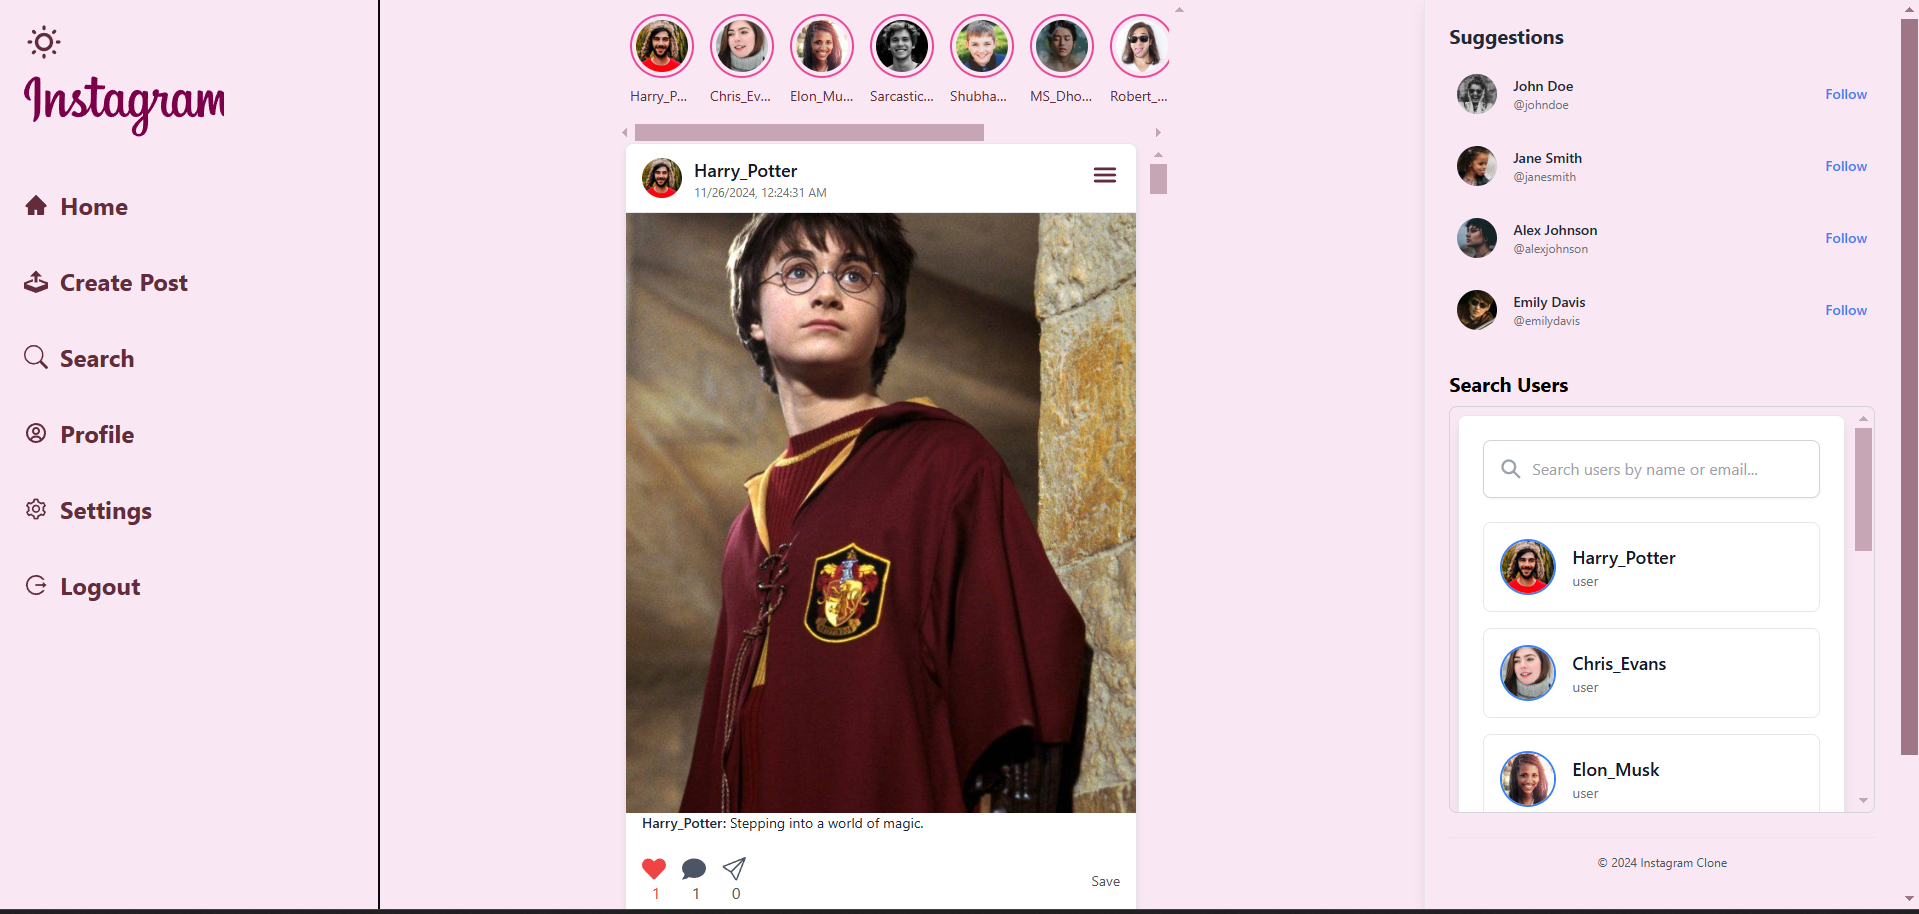
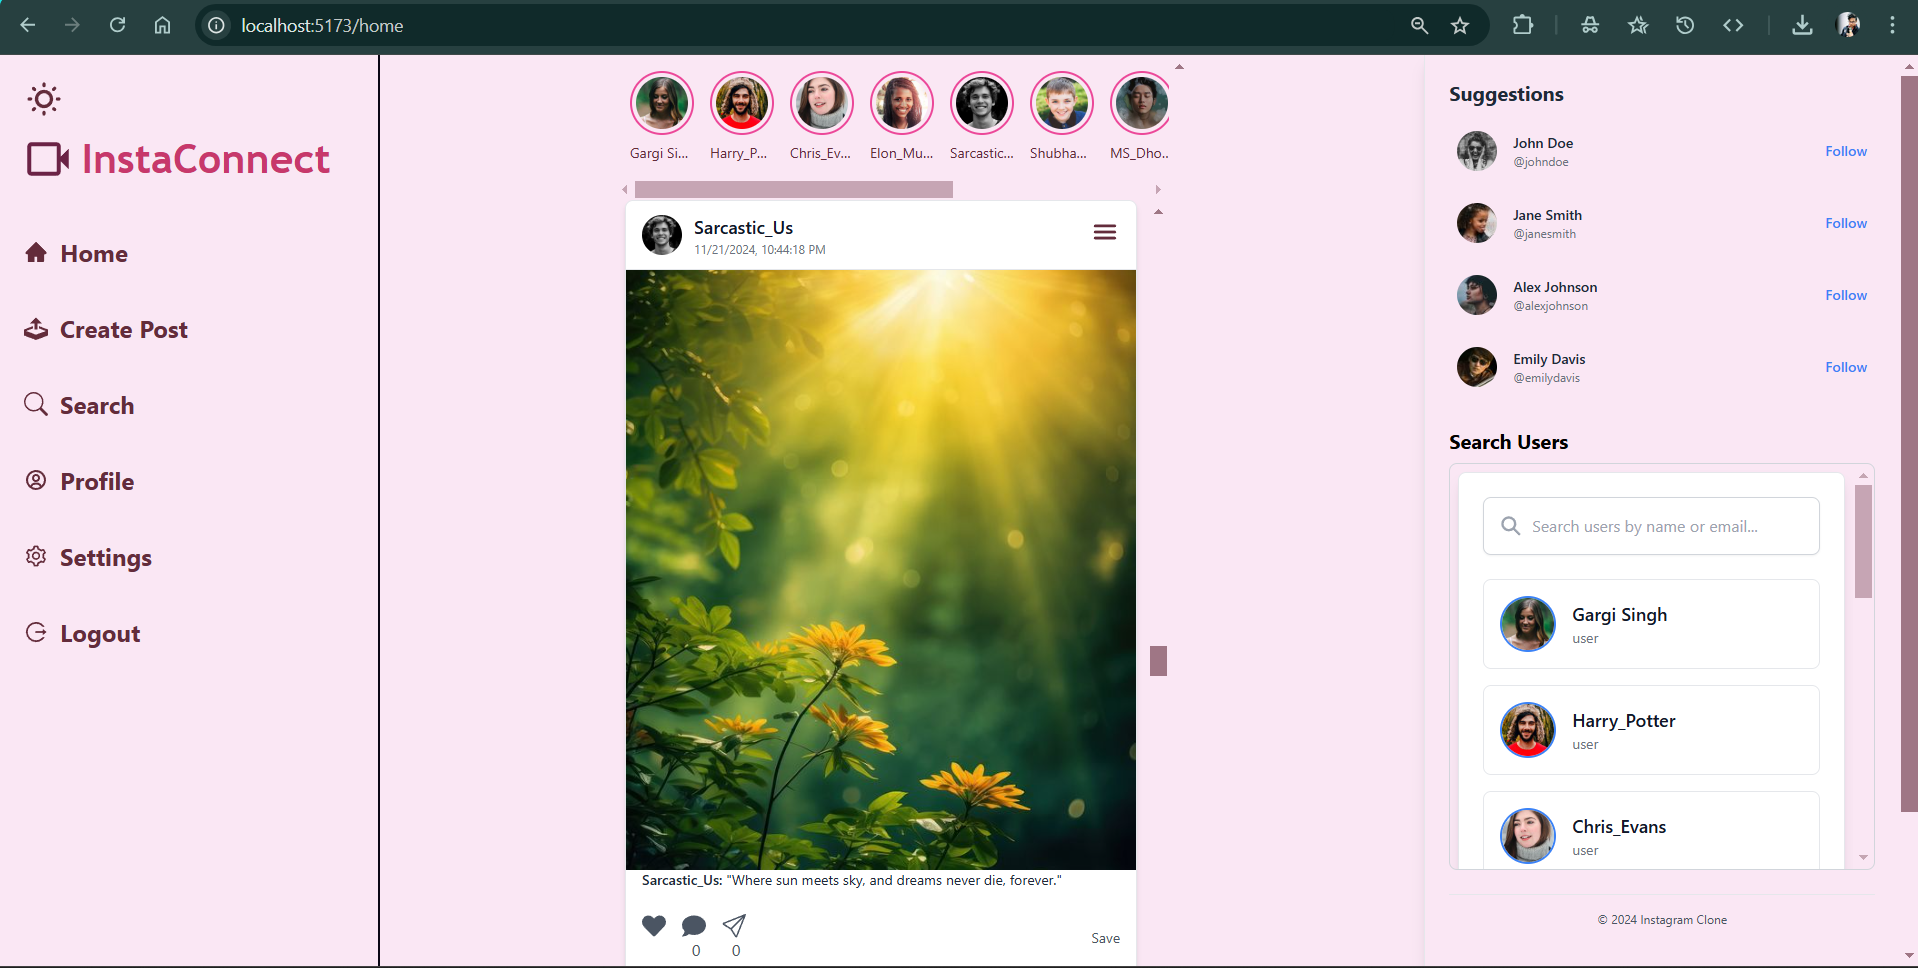
changed name

diff --git a/Frontend/src/components/UserProfile.jsx b/Frontend/src/components/UserProfile.jsx
@@ -104,37 +104,54 @@ function ProfilePage() {
   
         {/* Posts Section */}
         <div className="max-w-5xl mx-auto px-4 py-8">
-          <h2 className="text-2xl font-semibold text-primary-content mb-6">Posts</h2>
-          <div className="grid grid-cols-2 sm:grid-cols-3 lg:grid-cols-4 gap-6">
-            {userPosts.map((post) => (
-              <div
-                key={post._id}
-                className="relative group bg-white shadow-md rounded-lg overflow-hidden transform hover:scale-105 transition-all duration-300"
-              >
-                <img
-                  src={post.image}
-                  alt={post.caption}
-                  className="w-full h-48 object-cover"
-                />
-                <div className="absolute inset-0 bg-black bg-opacity-0 group-hover:bg-opacity-50 transition-all duration-300 flex items-center justify-center">
-                  <div className="text-white opacity-0 group-hover:opacity-100 transition-all duration-300 text-center">
-                    <p className="font-bold text-lg">{post.caption}</p>
-                    <div className="flex space-x-4 mt-2">
-                      <span className="flex items-center space-x-1">
-                        ❤
-                        <span>10</span>
-                      </span>
-                      <span className="flex items-center space-x-1">
-                        💬
-                        <span>5</span>
-                      </span>
-                    </div>
-                  </div>
-                </div>
-              </div>
-            ))}
+  <h2 className="text-2xl font-semibold text-primary-content mb-6">Posts</h2>
+  <div className="grid grid-cols-2 sm:grid-cols-3 lg:grid-cols-4 gap-6">
+    {userPosts.map((post) => (
+      <div
+        key={post._id}
+        className="relative group bg-white shadow-md rounded-lg overflow-hidden transform hover:scale-105 transition-all duration-300"
+      >
+        {console.log(post)}
+        
+        {/* Check if the media is an image or a video */}
+        {post.image && post.image.match(/\.(jpeg|jpg|gif|png)$/i) ? (
+          <img
+            src={post.image}
+            alt={post.caption}
+            className="w-full h-48 object-cover"
+          />
+        ) : post.image && post.image.endsWith('.mp4') ? (
+          <video
+            controls
+            className="w-full h-48 object-cover"
+          >
+            <source src={post.image} type="video/mp4" />
+            Your browser does not support the video tag.
+          </video>
+        ) : (
+          <div>No media available</div> // Fallback if no valid media type
+        )}
+
+        <div className="absolute inset-0 bg-black bg-opacity-0 group-hover:bg-opacity-50 transition-all duration-300 flex items-center justify-center">
+          <div className="text-white opacity-0 group-hover:opacity-100 transition-all duration-300 text-center">
+            <p className="font-bold text-lg">{post.caption}</p>
+            <div className="flex space-x-4 mt-2">
+              <span className="flex items-center space-x-1">
+                ❤
+                <span>10</span>
+              </span>
+              <span className="flex items-center space-x-1">
+                💬
+                <span>5</span>
+              </span>
+            </div>
           </div>
         </div>
+      </div>
+    ))}
+  </div>
+</div>
+
   
         {/* Floating Action Button */}
         <button className="fixed bottom-8 right-8 bg-pink-500 hover:bg-pink-600 text-white w-16 h-16 rounded-full shadow-lg flex items-center justify-center text-3xl">

diff --git a/Frontend/src/components/Login.jsx b/Frontend/src/components/Login.jsx
@@ -6,7 +6,7 @@ import { jwtDecode } from "jwt-decode";
 
 import { toast } from 'react-toastify';
 import homeImage from '../assets/home-phones.png'; // Replace with the correct path
-import Header from './Header';
+
 import Insta from './Pages/instagram.svg'
 const Login = () => {
     const [email, setEmail] = useState('');
@@ -73,7 +73,7 @@ const Login = () => {
 
                 {/* Right Section - Login Form */}
                 <div className="flex flex-col w-full lg:w-[350px] p-10 bg-white rounded-lg shadow-lg">
-                    <h2 className="text-3xl font-bold text-center mb-8 text-gray-800">Instagram</h2>
+                    <h2 className="text-3xl font-bold text-center mb-8 text-gray-800">InstaConnect</h2>
                     <form onSubmit={handleSubmit} className="space-y-6">
                         <div>
                             <input

diff --git a/Frontend/src/components/Left.jsx b/Frontend/src/components/Left.jsx
@@ -6,6 +6,7 @@ import { Link, useNavigate } from "react-router-dom";
 import { ImUpload } from 'react-icons/im';
 import { BsSearch } from 'react-icons/bs';
 import Insta from './Pages/instagram.svg'
+import Connect from './Pages/connect.svg'
 import { toast } from 'react-toastify';
 
 
@@ -21,9 +22,10 @@ function Left() {
                 
                 <ul className="space-y-11">
                     <li>  <Theme/> 
-                    <div>
+                    <span className="flex items-center gap-0">
+                        <img src={Connect} alt="" />
             <img src={Insta} alt="Instagram Logo" />
-        </div>
+        </span>
           
                     </li>
                     <li className="flex items-center space-x-3  cursor-pointer">

diff --git a/Frontend/src/components/Registration.jsx b/Frontend/src/components/Registration.jsx
@@ -1,7 +1,7 @@
 import axios from "axios";
 import { useState } from "react";
 import { toast } from "react-toastify";
-import { useNavigate } from "react-router-dom";
+import { Link, useNavigate } from "react-router-dom";
 import Insta from "./Pages/instagram.svg";
 
 function Registration() {
@@ -113,7 +113,16 @@ function Registration() {
             {loading ? "Submitting..." : "Sign Up"}
           </button>
         </form>
+        <div className="mt-6 text-center text-lg text-gray-600">
+          <p>
+            Already have an account?&nbsp;
+            <Link to="/login" className="text-pink-600 hover:underline">
+              Login
+            </Link>
+          </p>
+        </div>
       </div>
+     
     </div>
   );
 }
